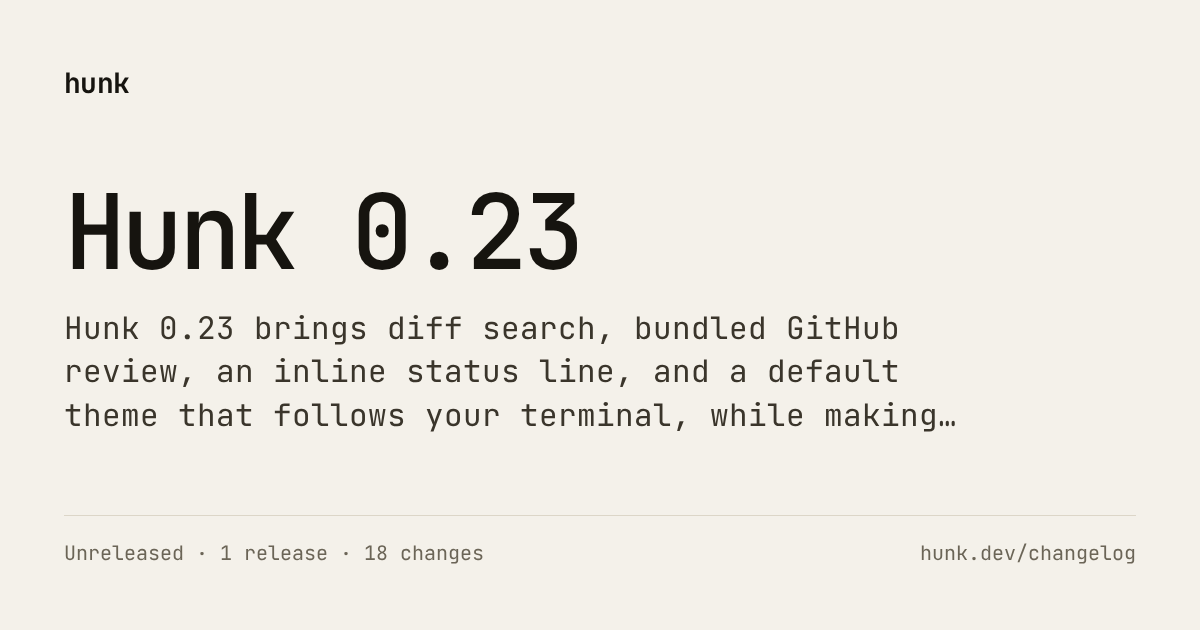
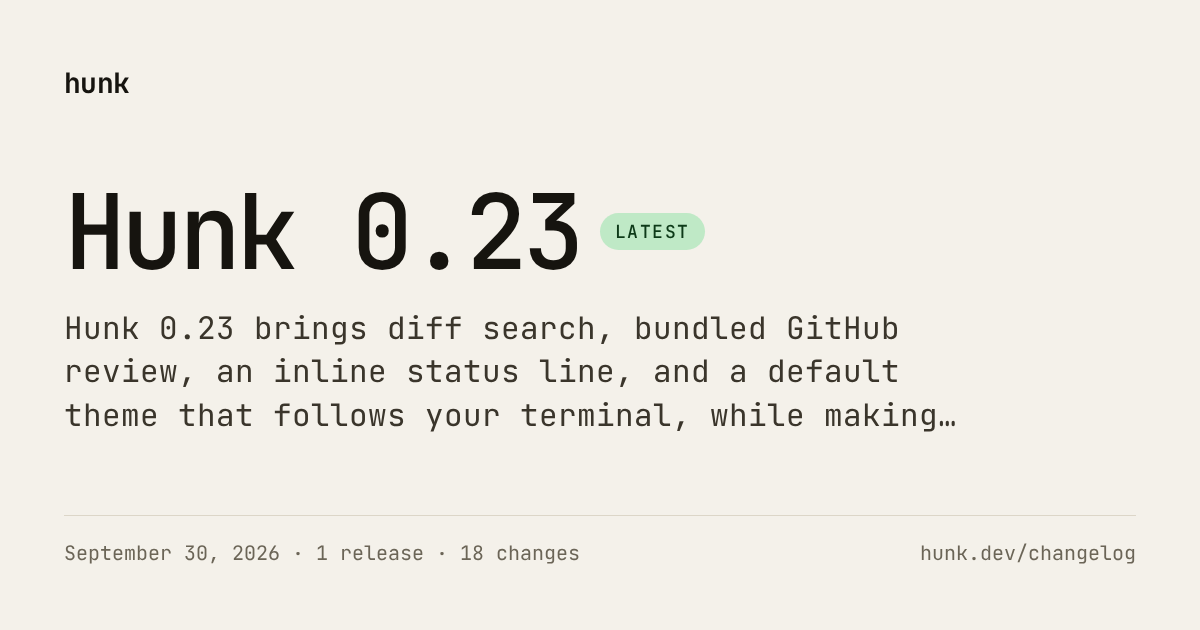
docs(release): publish v0.23.0 notes (#1135)

Changed region(s): [[0.0617, 0.8444, 0.4933, 0.9048], [0.4933, 0.3317, 0.5858, 0.4222]]

diff --git a/website/tests/changelog-smoke.spec.ts b/website/tests/changelog-smoke.spec.ts
@@ -59,7 +59,7 @@ test("a release page carries its versions, dates, and install command", async ({
   await expect(page.locator("#v0-18-0-beta-0")).toHaveCount(1);
 });
 
-test("the latest promoted prerelease series publishes stable install guidance", async ({
+test("the previous stable series keeps its prerelease anchors and pinned install command", async ({
   page,
 }) => {
   await page.goto("/changelog/0.22/");
@@ -68,7 +68,16 @@ test("the latest promoted prerelease series publishes stable install guidance", 
   }
   await expect(page.locator("#v0-22-0")).toHaveCount(1);
   await expect(page.locator("#v0-22-0-beta-0")).toHaveCount(1);
+  await expect(
+    page.locator(".sl-markdown-content pre").filter({ hasText: "npm i -g hunkdiff@0.22.0" }),
+  ).toHaveCount(1);
+});
 
+test("the current stable series publishes default install and update guidance", async ({
+  page,
+}) => {
+  await page.goto("/changelog/0.23/");
+  await expect(page.getByRole("heading", { level: 3, name: "0.23.0", exact: true })).toBeVisible();
   const installBlocks = page.locator(".sl-markdown-content pre");
   await expect(installBlocks.filter({ hasText: "curl -fsSL" })).toHaveCount(1);
   await expect(installBlocks.filter({ hasText: "hunk update" })).toHaveCount(1);
@@ -113,7 +122,8 @@ test("the changelog feed and Markdown twins are served", async ({ request }) => 
   expect(feedBody).toContain("https://hunk.dev/changelog/0.19/");
   expect(feedBody).toContain("https://hunk.dev/changelog/0.21/");
   expect(feedBody).toContain("https://hunk.dev/changelog/0.22/#v0-22-0");
-  expect(feedBody).toContain("Thu, 10 Sep 2026 00:00:00 GMT");
+  expect(feedBody).toContain("https://hunk.dev/changelog/0.23/");
+  expect(feedBody).toContain("Wed, 30 Sep 2026 00:00:00 GMT");
 
   const markdown = await request.get("/changelog/0.18.md");
   expect(markdown.ok()).toBe(true);
@@ -133,27 +143,31 @@ test("release notes reach the full agent corpus but not the abridged one", async
 });
 
 test("each changelog page carries its own social card", async ({ page, request }) => {
-  await page.goto("/changelog/0.22/");
-  const image = page.locator('meta[property="og:image"]');
-  // Exactly one: the page's card must replace the site-wide image, not sit beside it.
-  await expect(image).toHaveCount(1);
-  await expect(image).toHaveAttribute("content", "https://hunk.dev/changelog/og/0.22.png");
-  await expect(page.locator('meta[name="twitter:image"]')).toHaveAttribute(
-    "content",
-    "https://hunk.dev/changelog/og/0.22.png",
-  );
-  await expect(page.locator('meta[property="og:image:alt"]')).toHaveAttribute(
-    "content",
-    /^Hunk 0\.22 release notes/,
-  );
+  for (const minor of ["0.22", "0.23"]) {
+    await page.goto(`/changelog/${minor}/`);
+    const cardUrl = `https://hunk.dev/changelog/og/${minor}.png`;
+    const image = page.locator('meta[property="og:image"]');
+    // Exactly one: the page's card must replace the site-wide image, not sit beside it.
+    await expect(image).toHaveCount(1);
+    await expect(image).toHaveAttribute("content", cardUrl);
+    await expect(page.locator('meta[name="twitter:image"]')).toHaveAttribute("content", cardUrl);
+    await expect(page.locator('meta[property="og:image:alt"]')).toHaveAttribute(
+      "content",
+      new RegExp(`^Hunk ${minor.replace(".", "\\.")} release notes`),
+    );
+  }
 
-  // The index gets its own card too, and both images are actually served.
+  // The index gets its own card too, and all three images are actually served.
   await page.goto("/changelog/");
   await expect(page.locator('meta[property="og:image"]')).toHaveAttribute(
     "content",
     "https://hunk.dev/changelog/og/index.png",
   );
-  for (const path of ["/changelog/og/0.22.png", "/changelog/og/index.png"]) {
+  for (const path of [
+    "/changelog/og/0.22.png",
+    "/changelog/og/0.23.png",
+    "/changelog/og/index.png",
+  ]) {
     const response = await request.get(path);
     expect(response.ok(), path).toBe(true);
     expect(response.headers()["content-type"]).toContain("image/png");

diff --git a/website/src/content/docs/changelog/0.23.md b/website/src/content/docs/changelog/0.23.md
@@ -11,7 +11,7 @@ head:
   - tag: meta
     attrs:
       property: og:image:alt
-      content: "Hunk 0.23 release notes — Unreleased · 1 release · 18 changes"
+      content: "Hunk 0.23 release notes — September 30, 2026 · 1 release · 18 changes"
   - tag: meta
     attrs:
       name: twitter:image
@@ -20,9 +20,23 @@ head:
 
 <!-- GENERATED by `bun run generate:changelog`. Edit CHANGELOG.md or website/releases/notes.json instead. -->
 
-Unreleased · 1 release
+September 30, 2026 · 1 release
 
 Hunk 0.23 brings diff search, bundled GitHub review, an inline status line, and a default theme that follows your terminal, while making daemon version mismatches easier to resolve.
+
+New to Hunk? Use the default installer. It verifies downloads when release checksums and local tooling are available, and warns otherwise:
+
+```sh
+curl -fsSL https://hunk.dev/install.sh | sh
+```
+
+Already on Hunk 0.20 or newer with the default install script, npm, or Homebrew? Move to this release with Hunk's canonical update command:
+
+```sh
+hunk update
+```
+
+On an older Hunk release, update once through the installer or package manager that installed it, then use `hunk update`. mise, Nix, source, and custom-directory installs remain owned by their own update workflows. This is the current release; see [all install options](/docs/start/install/).
 
 ## Related documentation
 
@@ -37,7 +51,7 @@ Hunk 0.23 brings diff search, bundled GitHub review, an inline status line, and 
 
 ### 0.23.0
 
-Unreleased
+September 30, 2026
 
 #### Minor Changes
 

diff --git a/website/src/content/docs/changelog/0.22.md b/website/src/content/docs/changelog/0.22.md
@@ -24,19 +24,11 @@ September 8, 2026 – September 10, 2026 · 3 releases
 
 Hunk 0.22 turns repository history into a responsive review workspace with commit-range browsing, persistent multiline selections, keyboard-driven threaded notes, and richer extension context.
 
-New to Hunk? Use the default installer. It verifies downloads when release checksums and local tooling are available, and warns otherwise:
-
 ```sh
-curl -fsSL https://hunk.dev/install.sh | sh
+npm i -g hunkdiff@0.22.0
 ```
 
-Already on Hunk 0.20 or newer with the default install script, npm, or Homebrew? Move to this release with Hunk's canonical update command:
-
-```sh
-hunk update
-```
-
-On an older Hunk release, update once through the installer or package manager that installed it, then use `hunk update`. mise, Nix, source, and custom-directory installs remain owned by their own update workflows. This is the current release; see [all install options](/docs/start/install/).
+Hunk 0.22 is no longer the current release. See [the latest release](/changelog/) or [all install options](/docs/start/install/).
 
 ## Related documentation
 

diff --git a/website/src/content/docs/changelog/index.md b/website/src/content/docs/changelog/index.md
@@ -11,7 +11,7 @@ head:
   - tag: meta
     attrs:
       property: og:image:alt
-      content: "Hunk changelog — 22 release series · March 2026 – September 2026"
+      content: "Hunk changelog — 23 release series · March 2026 – September 2026"
   - tag: meta
     attrs:
       name: twitter:image
@@ -24,13 +24,13 @@ head:
 
 ## [Hunk 0.23](/changelog/0.23/)
 
-Unreleased · 1 release · 18 changes
+Latest · September 30, 2026 · 1 release · 18 changes
 
 Hunk 0.23 brings diff search, bundled GitHub review, an inline status line, and a default theme that follows your terminal, while making daemon version mismatches easier to resolve.
 
 ## [Hunk 0.22](/changelog/0.22/)
 
-Latest · September 8, 2026 – September 10, 2026 · 3 releases · 81 changes
+September 8, 2026 – September 10, 2026 · 3 releases · 81 changes
 
 Hunk 0.22 turns repository history into a responsive review workspace with commit-range browsing, persistent multiline selections, keyboard-driven threaded notes, and richer extension context.
 

diff --git a/.changeset/bold-bobcats-prove.md b/.changeset/bold-bobcats-prove.md
@@ -1,0 +1,2 @@
+---
+---
